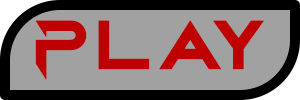
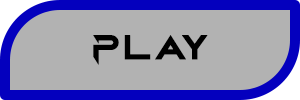
Add buttons to main screens.

diff --git a/Screens.cpp b/Screens.cpp
@@ -1,21 +1,67 @@
-#include <algorithm>
+#include <string>
+#include <unordered_map>
 
+#include <SDL.h>
 #include <SDL_image.h>
 
 #include "Core.h"
 #include "Screens.h"
 #include "Widgets.h"
 
+HomeScreen::HomeScreen()
+{
+	title = IMG_LoadTexture(Core::renderer, "img/title.png");
+	buttons["play"] = IMG_LoadTexture(Core::renderer, "img/playButton.png");
+	buttons["settings"] = IMG_LoadTexture(Core::renderer, "img/settingsButton.png");
+	buttons["quit"] = IMG_LoadTexture(Core::renderer, "img/quitButton.png");
+}
+
 void HomeScreen::draw() const
 {
-	SDL_Texture* texture{ IMG_LoadTexture(Core::renderer, "img/title.png") };
-	int w{};
-	int h{};
-	SDL_QueryTexture(texture, NULL, NULL, &w, &h);
-	SDL_FRect rect{ Core::monitor.w * 0.5f, 0 };
-	rect.w = std::clamp(static_cast<float>(w), Core::monitor.w * 0.1f, Core::monitor.w * 0.5f);
-	rect.h = std::clamp(static_cast<float>(h), Core::monitor.h * 0.1f, Core::monitor.h * 0.5f);
-	rect.x -= rect.w / 2;
-	SDL_RenderCopyF(Core::renderer, texture, NULL, &rect);
-	SDL_DestroyTexture(texture);
+	Widgets::image(title, { Core::monitor.w / 2, 0 }, { 0.5, 0 });
+
+	if (Widgets::button(buttons.at("play"), { Core::monitor.w / 2, Core::monitor.h / 2 }, { 0.5, 0.5 }))
+		Core::activeScreen = Core::screens[Core::levels];
+
+	if (Widgets::button(buttons.at("settings"), { Core::monitor.w / 2, Core::monitor.h / 2 + 150 }, { 0.5, 0.5 }))
+		Core::activeScreen = Core::screens[Core::settings];
+
+	if (Widgets::button(buttons.at("quit"), { Core::monitor.w / 2, Core::monitor.h / 2 + 300 }, { 0.5, 0.5 }))
+		Core::running = false;
+}
+
+LevelsScreen::LevelsScreen()
+{
+	buttons["back"] = IMG_LoadTexture(Core::renderer, "img/backButton.png");
+}
+
+void LevelsScreen::draw() const
+{
+	Widgets::setFont("C:\\Windows\\Fonts\\AGENCYR.TTF", 32);
+	Widgets::label("Hello, world! Levels screen.", { Core::monitor.w / 2, Core::monitor.h / 2 }, { 0xff, 0xff, 0xff }, { 0.5, 0.5 });
+
+	if (Widgets::button(buttons.at("back"), { Core::monitor.w / 2, Core::monitor.h - 300 }, { 0.5, 0.5 }))
+		Core::activeScreen = Core::screens[Core::home];
+}
+
+SettingsScreen::SettingsScreen()
+{
+	buttons["back"] = IMG_LoadTexture(Core::renderer, "img/backButton.png");
+}
+
+void SettingsScreen::draw() const
+{
+	Widgets::setFont("C:\\Windows\\Fonts\\AGENCYR.TTF", 32);
+	Widgets::label("Hello, world! Settings screen. " + std::to_string(SDL_GetTicks() / 1000), {Core::monitor.w / 2, Core::monitor.h / 2}, {0xff, 0xff, 0xff}, {0.5, 0.5});
+
+	if (Widgets::button(buttons.at("back"), { Core::monitor.w / 2, Core::monitor.h - 300 }, { 0.5, 0.5 }))
+		Core::activeScreen = Core::screens[Core::home];
+}
+
+GameScreen::GameScreen()
+{
+}
+
+void GameScreen::draw() const
+{
 }

diff --git a/Widgets.cpp b/Widgets.cpp
@@ -1,4 +1,5 @@
 #include <string>
+#include <algorithm>
 
 #include <SDL.h>
 #include <SDL_ttf.h>
@@ -6,38 +7,51 @@
 #include "Widgets.h"
 #include "Core.h"
 
-void Label::draw(std::string text, SDL_Point pos, SDL_Color color, SDL_FPoint pivot)
+static void draw(SDL_Texture* texture, SDL_Rect& rect, SDL_FPoint& pivot)
 {
-	SDL_Surface* surface{ TTF_RenderText_Blended(font, text.c_str(), color) };
-	SDL_Texture* texture{ SDL_CreateTextureFromSurface(Core::renderer, surface) };
-	SDL_Rect rect{ pos.x, pos.y };
 	SDL_QueryTexture(texture, NULL, NULL, &rect.w, &rect.h);
 	rect.x -= static_cast<int>(rect.w * pivot.x);
 	rect.y -= static_cast<int>(rect.h * pivot.y);
 	SDL_RenderCopy(Core::renderer, texture, NULL, &rect);
-	SDL_FreeSurface(surface);
-	SDL_DestroyTexture(texture);
 }
 
-void Label::setFont(std::string path, int size)
+void Widgets::setFont(std::string path, int size)
 {
 	if (font)
 		TTF_CloseFont(font);
 	font = TTF_OpenFont(path.c_str(), size);
 }
 
-bool Button::draw(SDL_Texture* texture, SDL_Point pos, SDL_FPoint pivot)
+void Widgets::label(std::string text, SDL_Point pos, SDL_Color color, SDL_FPoint pivot)
+{
+	SDL_Surface* surface{ TTF_RenderText_Blended(font, text.c_str(), color) };
+	SDL_Texture* texture{ SDL_CreateTextureFromSurface(Core::renderer, surface) };
+	SDL_Rect rect{ pos.x, pos.y };
+	draw(texture, rect, pivot);
+	SDL_FreeSurface(surface);
+	SDL_DestroyTexture(texture);
+}
+
+bool Widgets::button(SDL_Texture* texture, SDL_Point pos, SDL_FPoint pivot)
 {
 	SDL_Rect rect{ pos.x, pos.y};
-	SDL_QueryTexture(texture, NULL, NULL, &rect.w, &rect.h);
-	rect.x -= static_cast<int>(rect.w * pivot.x);
-	rect.y -= static_cast<int>(rect.h * pivot.y);
+	draw(texture, rect, pivot);
 	if (SDL_PointInRect(&Core::mouse, &rect))
-		SDL_SetTextureColorMod(texture, 0xf0, 0xf0, 0xf0);
-	if (SDL_GetMouseState(NULL, NULL) & SDL_BUTTON_LEFT)
 	{
-		SDL_SetTextureColorMod(texture, 0x40, 0x40, 0x40);
-		return true;
+		SDL_SetTextureColorMod(texture, 0xa0, 0xa0, 0xa0);
+		if (SDL_GetMouseState(NULL, NULL) & SDL_BUTTON_LEFT)
+		{
+			SDL_SetTextureColorMod(texture, 0x60, 0x60, 0x60);
+			return true;
+		}
 	}
+	else
+		SDL_SetTextureColorMod(texture, 0xff, 0xff, 0xff);
 	return false;
+}
+
+void Widgets::image(SDL_Texture* texture, SDL_Point pos, SDL_FPoint pivot)
+{
+	SDL_Rect rect{ pos.x, pos.y };
+	draw(texture, rect, pivot);
 }

diff --git a/Screens.h b/Screens.h
@@ -1,8 +1,15 @@
 #ifndef SCREEN_H
 #define SCREEN_H
 
+#include <string>
+#include <unordered_map>
+
+#include <SDL.h>
+
 class Screen
 {
+protected:
+	std::unordered_map<std::string, SDL_Texture*> buttons{};
 public:
 	virtual void draw() const = 0;
 };
@@ -10,7 +17,33 @@ public:
 class HomeScreen : public Screen
 {
 private:
+	SDL_Texture* title{};
 public:
+	HomeScreen();
+	void draw() const override;
+};
+
+class LevelsScreen : public Screen
+{
+private:
+public:
+	LevelsScreen();
+	void draw() const override;
+};
+
+class SettingsScreen : public Screen
+{
+private:
+public:
+	SettingsScreen();
+	void draw() const override;
+};
+
+class GameScreen : public Screen
+{
+private:
+public:
+	GameScreen();
 	void draw() const override;
 };
 

diff --git a/Core.cpp b/Core.cpp
@@ -5,7 +5,7 @@
 
 #include "Core.h"
 #include "Widgets.h"
-#include "HomeScreen.h"
+#include "Screens.h"
 
 void Core::init(const char* title)
 {
@@ -18,9 +18,12 @@ void Core::init(const char* title)
 	window = SDL_CreateWindow(title, SDL_WINDOWPOS_CENTERED, SDL_WINDOWPOS_CENTERED, monitor.w, monitor.h, SDL_WINDOW_BORDERLESS | SDL_WINDOW_SHOWN);
 	renderer = SDL_CreateRenderer(window, -1, SDL_RENDERER_ACCELERATED | SDL_RENDERER_PRESENTVSYNC);
 
-	screens.push_back(new HomeScreen{});
-	activeScreen = screens[0];
+	screens[home] = new HomeScreen{};
+	screens[levels] = new LevelsScreen{};
+	screens[settings] = new SettingsScreen{};
+	screens[game] = new GameScreen{};
 
+	activeScreen = screens[home];
 	running = true;
 }
 

diff --git a/Core.h b/Core.h
@@ -5,7 +5,7 @@
 
 #include <SDL.h>
 
-#include "Screen.h"
+#include "Screens.h"
 
 namespace Core
 {
@@ -19,12 +19,22 @@ namespace Core
 		void close();
 	};
 
+	enum
+	{
+		home,
+		levels,
+		settings,
+		game,
+
+		total_screens
+	};
+
 	inline SDL_Window* window{};
 	inline SDL_Renderer* renderer{};
 	inline SDL_DisplayMode monitor{};
 	inline SDL_Point mouse{};
 
-	inline std::vector<Screen*> screens{};
+	inline std::vector<Screen*> screens{ total_screens };
 	inline Screen* activeScreen{};
 	inline bool running{};
 

diff --git a/Widgets.h b/Widgets.h
@@ -6,22 +6,14 @@
 #include <SDL.h>
 #include <SDL_ttf.h>
 
-namespace Label
+namespace Widgets
 {
 	inline TTF_Font* font{};
-
-	void draw(std::string, SDL_Point, SDL_Color, SDL_FPoint);
 	void setFont(std::string, int);
-}
 
-namespace Button
-{
-	bool draw(SDL_Texture*, SDL_Point, SDL_FPoint);
-}
-
-namespace Image
-{
-
+	void label(std::string, SDL_Point, SDL_Color, SDL_FPoint);
+	bool button(SDL_Texture*, SDL_Point, SDL_FPoint);
+	void image(SDL_Texture*, SDL_Point, SDL_FPoint);
 }
 
 #endif
